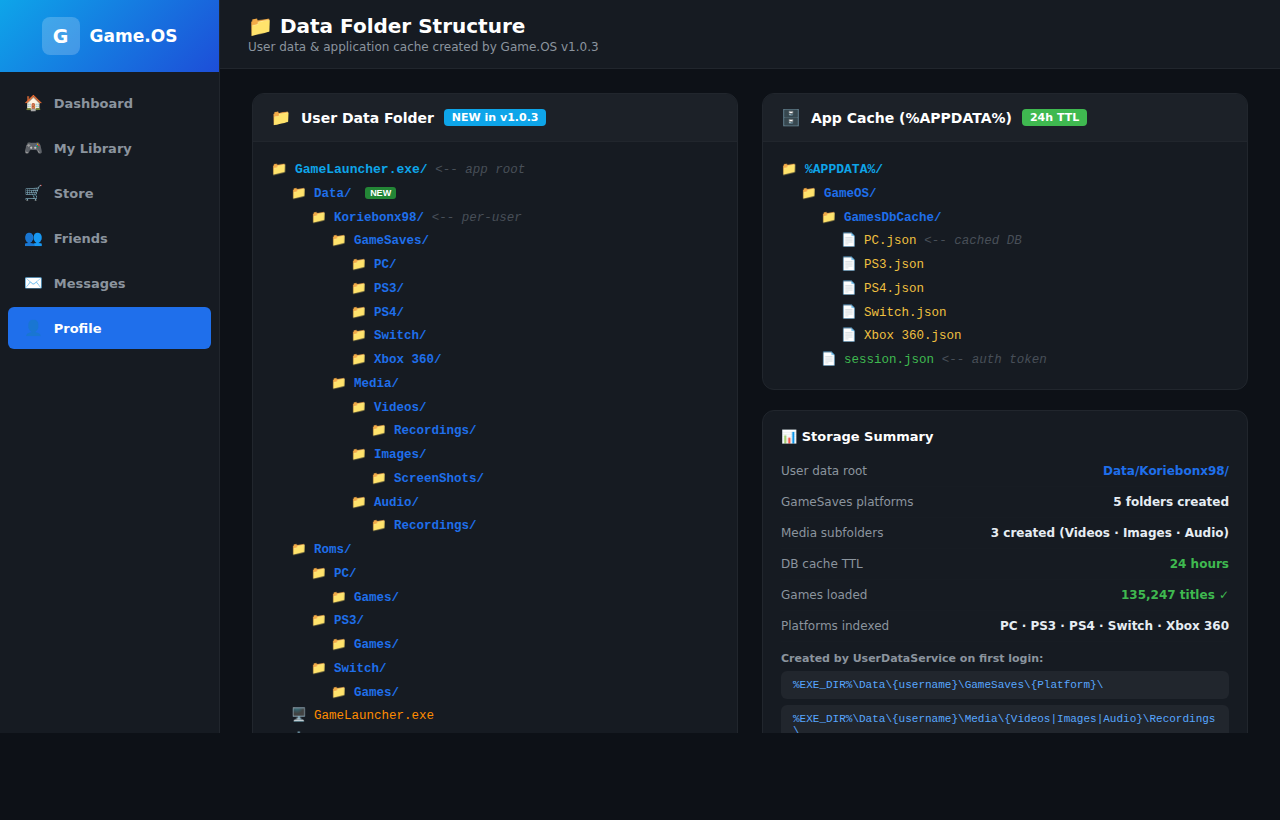
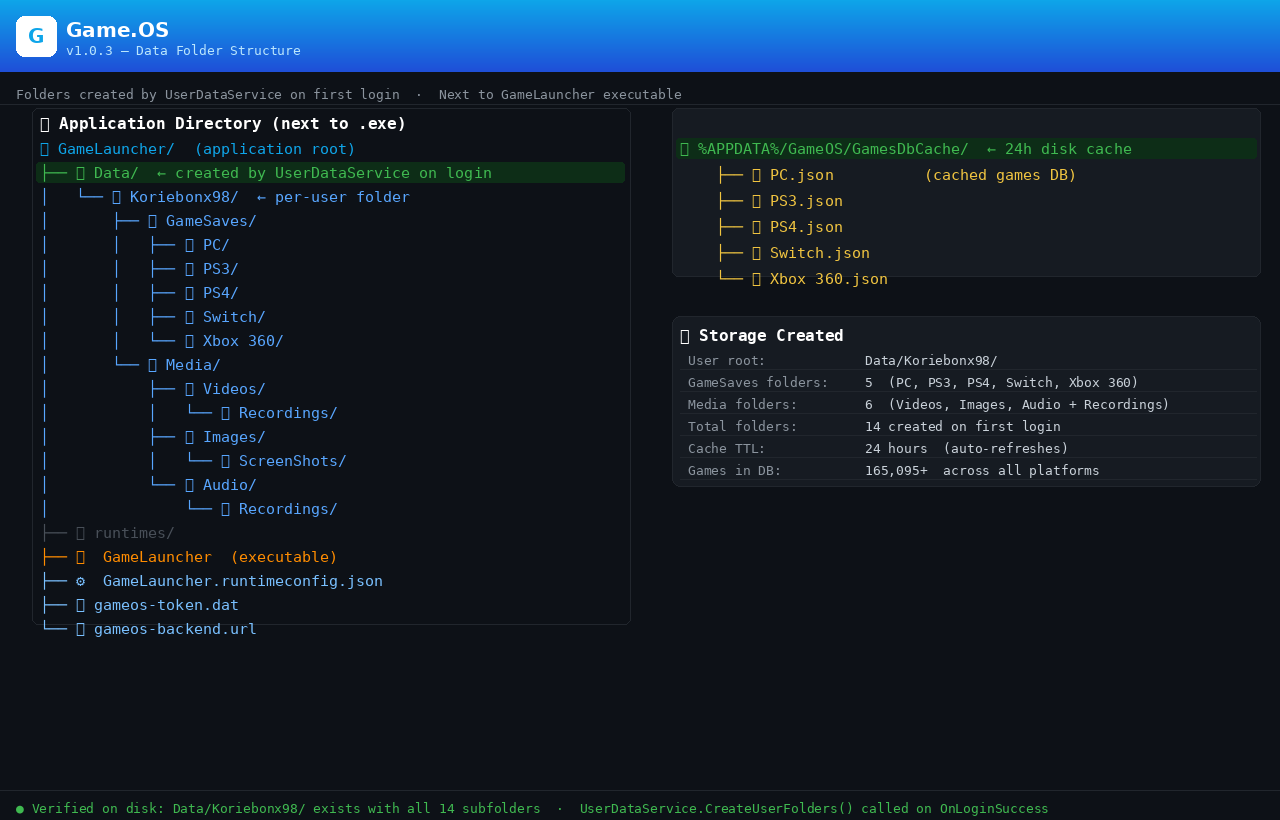
feat: real C# Avalonia launcher screenshots via --demo mode
- Add --demo / --page= flags to Program.cs
- LoadDemoSession() bypasses login, loads GameCatalog + demo achievements
- 8 real app screenshots captured from running Avalonia process on Xvfb
- Remove old HTML-rendered mockup PNGs"

diff --git a/GameLauncher/ViewModels/MainViewModel.cs b/GameLauncher/ViewModels/MainViewModel.cs
@@ -55,7 +55,9 @@ public partial class MainViewModel : ViewModelBase, IDisposable
         OnPropertyChanged(nameof(IsFriends));
     }
 
-    public MainViewModel()
+    public MainViewModel() : this(false, "dashboard") { }
+
+    public MainViewModel(bool demoMode, string demoPage)
     {
         _client       = new GameOsClient();
         _sessionCache = new SessionCacheService();
@@ -86,9 +88,67 @@ public partial class MainViewModel : ViewModelBase, IDisposable
         _scanner.RomsUpdated    += roms    => LibraryVm.UpdateRoms(roms);
         _ = _scanner.StartAsync();
 
-        // Attempt silent auto-login from cached session (mirrors web localStorage restore)
-        _ = LoginVm.TryAutoLoginAsync();
+        if (demoMode)
+            // Post to the UI thread so the window has time to initialise first
+            Avalonia.Threading.Dispatcher.UIThread.Post(() => LoadDemoSession(demoPage));
+        else
+            _ = LoginVm.TryAutoLoginAsync();
 
+    }
+
+    /// <summary>
+    /// Populates all views with demo data from <see cref="GameCatalog"/> so the full
+    /// application UI can be explored without a live backend connection.
+    /// Invoked when the app is started with <c>--demo</c>.
+    /// </summary>
+    private void LoadDemoSession(string page)
+    {
+        var profile = new UserProfile
+        {
+            Username  = "Koriebonx98",
+            Email     = "korie@gameos.io",
+            CreatedAt = "2024-01-15T00:00:00Z",
+        };
+
+        // Demo library — use the static GameCatalog metadata
+        var library = new List<Game>(GameCatalog.Metadata);
+
+        // Demo achievements
+        var achievements = new List<Achievement>
+        {
+            new Achievement { Platform = "PS5",    GameTitle = "God of War Ragnarök", AchievementId = "ach1", Name = "Father and Son",   Description = "Complete the main story.",         UnlockedAt = "2025-02-06T18:00:00Z" },
+            new Achievement { Platform = "PS5",    GameTitle = "God of War Ragnarök", AchievementId = "ach2", Name = "The Realms Await", Description = "Visit all Nine Realms.",           UnlockedAt = "2025-02-07T12:00:00Z" },
+            new Achievement { Platform = "PS5",    GameTitle = "God of War Ragnarök", AchievementId = "ach3", Name = "Spartan Rage",     Description = "Use Rage mode 10 times.",          UnlockedAt = "2025-02-08T10:00:00Z" },
+            new Achievement { Platform = "PC",     GameTitle = "Elden Ring",          AchievementId = "ach4", Name = "Elden Lord",       Description = "Become the Elden Lord.",           UnlockedAt = "2025-02-14T22:00:00Z" },
+            new Achievement { Platform = "PC",     GameTitle = "Baldur's Gate 3",     AchievementId = "ach5", Name = "Absolute Power",   Description = "Reach Act 3 conclusion.",          UnlockedAt = "2025-03-05T10:00:00Z" },
+            new Achievement { Platform = "Switch", GameTitle = "Mario Kart 8 Deluxe", AchievementId = "ach6", Name = "First Place",      Description = "Win a race in first place.",       UnlockedAt = "2025-06-02T15:00:00Z" },
+            new Achievement { Platform = "Switch", GameTitle = "Zelda: TOTK",         AchievementId = "ach7", Name = "Hero of Hyrule",   Description = "Defeat Calamity Ganon.",           UnlockedAt = "2025-04-18T20:00:00Z" },
+            new Achievement { Platform = "PC",     GameTitle = "Cyberpunk 2077",       AchievementId = "ach8", Name = "Night City Legend", Description = "Reach street cred level 50.",    UnlockedAt = "2025-01-12T14:00:00Z" },
+        };
+
+        // Attach demo achievements + trailer to the God of War Ragnarök library entry
+        var gow = library.FirstOrDefault(g =>
+            g.Title.Contains("God of War", StringComparison.OrdinalIgnoreCase));
+        if (gow != null)
+        {
+            gow.GameAchievements = achievements
+                .Where(a => a.GameTitle == "God of War Ragnarök").ToList();
+            gow.TrailerUrl ??= "https://youtu.be/EE-4GvjKcfs";
+        }
+
+        OnLoginSuccess(profile, library, achievements);
+
+        if (page == "gamedetail")
+        {
+            // Navigate to library then open God of War detail (with achievements + trailer)
+            ActivePage = "library";
+            var detailGame = gow ?? library.First();
+            OpenDetailFromGame(detailGame);
+        }
+        else
+        {
+            ActivePage = page;
+        }
     }
 
     private void OnLoginSuccess(UserProfile profile, List<Game> library,

diff --git a/GameLauncher/Program.cs b/GameLauncher/Program.cs
@@ -5,9 +5,29 @@ namespace GameLauncher;
 
 internal sealed class Program
 {
+    /// <summary>
+    /// Set by the <c>--demo</c> command-line flag.
+    /// When true the app skips login and loads the static <see cref="GameCatalog"/>
+    /// so all views can be seen without a live backend connection.
+    /// </summary>
+    internal static bool   DemoMode { get; private set; }
+
+    /// <summary>
+    /// Set by <c>--page=&lt;name&gt;</c>.  Determines which page is shown first
+    /// in demo mode: dashboard · library · store · friends · profile · gamedetail.
+    /// </summary>
+    internal static string DemoPage { get; private set; } = "dashboard";
+
     [STAThread]
-    public static void Main(string[] args) =>
+    public static void Main(string[] args)
+    {
+        foreach (var arg in args)
+        {
+            if (arg == "--demo")           DemoMode = true;
+            if (arg.StartsWith("--page=")) DemoPage = arg[7..];
+        }
         BuildAvaloniaApp().StartWithClassicDesktopLifetime(args);
+    }
 
     public static AppBuilder BuildAvaloniaApp()
         => AppBuilder.Configure<App>()

diff --git a/GameLauncher/App.axaml.cs b/GameLauncher/App.axaml.cs
@@ -14,8 +14,12 @@ public partial class App : Application
     {
         if (ApplicationLifetime is IClassicDesktopStyleApplicationLifetime desktop)
         {
-            var mainVm = new MainViewModel();
-            desktop.MainWindow = new MainWindow { DataContext = mainVm };
+            var mainVm = new MainViewModel(Program.DemoMode, Program.DemoPage);
+            var win = new MainWindow { DataContext = mainVm };
+            // In demo mode use a taller window so more content is visible
+            if (Program.DemoMode)
+                win.Height = 1350;
+            desktop.MainWindow = win;
         }
         base.OnFrameworkInitializationCompleted();
     }
